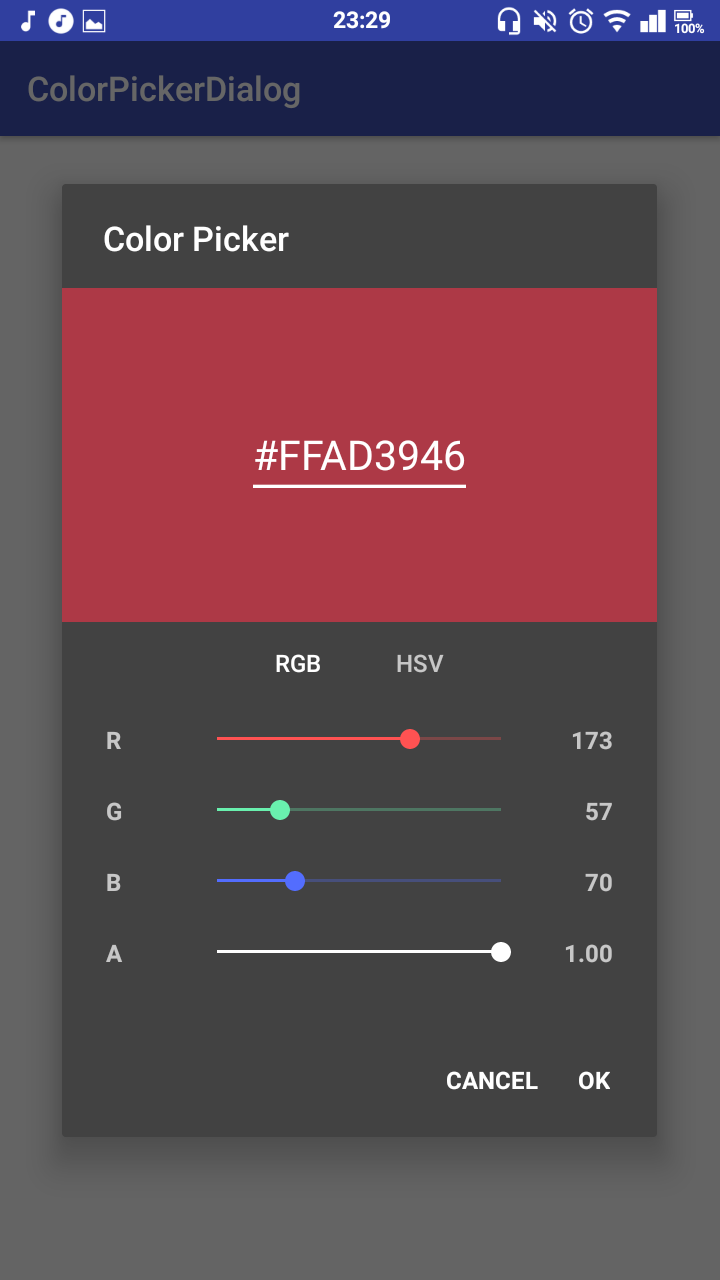
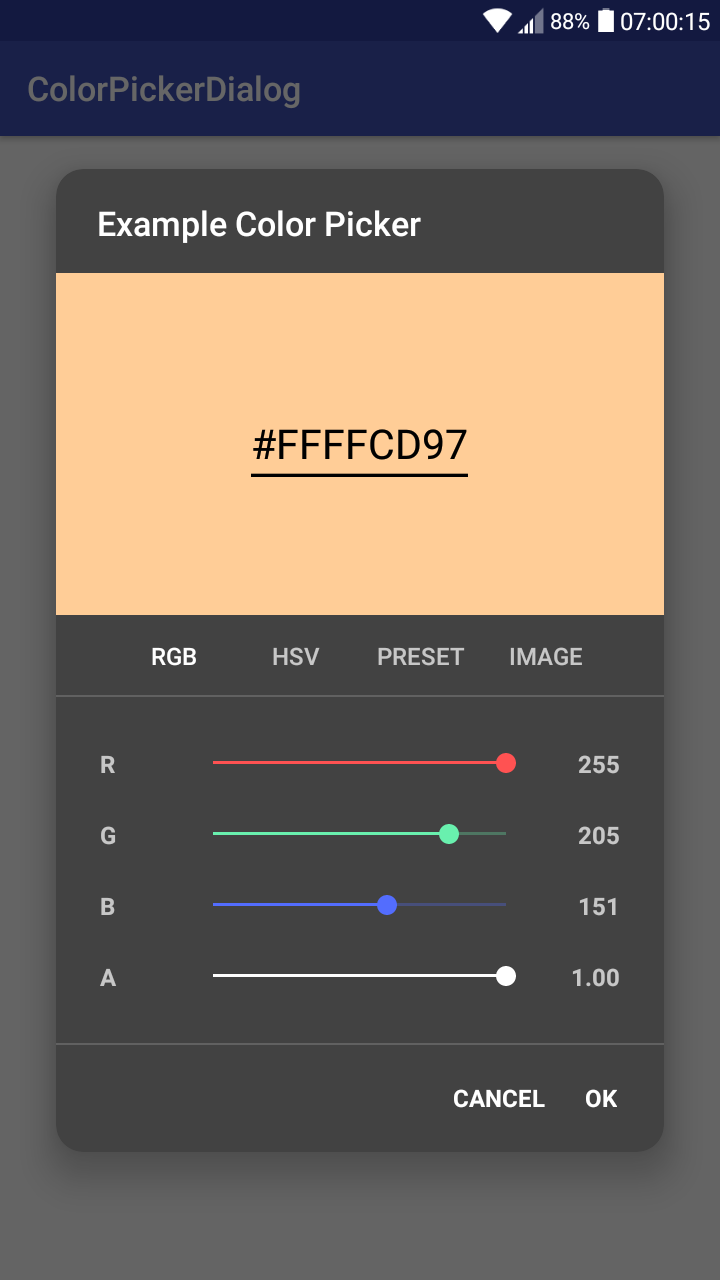
update screenshots [ci skip]

diff --git a/README.md b/README.md
@@ -6,9 +6,9 @@ ColorPickerDialog is a simple dialog making it quick and easy to add a color pic
 
 For testing and experimentation purposes, a sample apk can be downloaded [here](https://jfenn.me/projects/colorpickerdialog).
 
-|Color Picker|No Alpha|Dark Theme|
-|--------|--------|--------|
-|![img](./.github/images/picker.png?raw=true)|![img](./.github/images/noalpha.png?raw=true)|![img](./.github/images/darktheme.png?raw=true)|
+| RGB(A) Picker | HSV Picker | Preset Picker | Image Picker (Tab) | Image Picker (Images) | Dark Theme |
+|---------------|------------|---------------|--------------------|-----------------------|------------|
+| ![Screenshot](./.github/images/rgba.png) | ![Screenshot](./.github/images/hsv.png) | ![Screenshot](./.github/images/presets.png) | ![Screenshot](./.github/images/images.png) | ![Screenshot](./.github/images/image.png) | ![Screenshot](./.github/images/darktheme.png) |
 
 ## Usage
 
